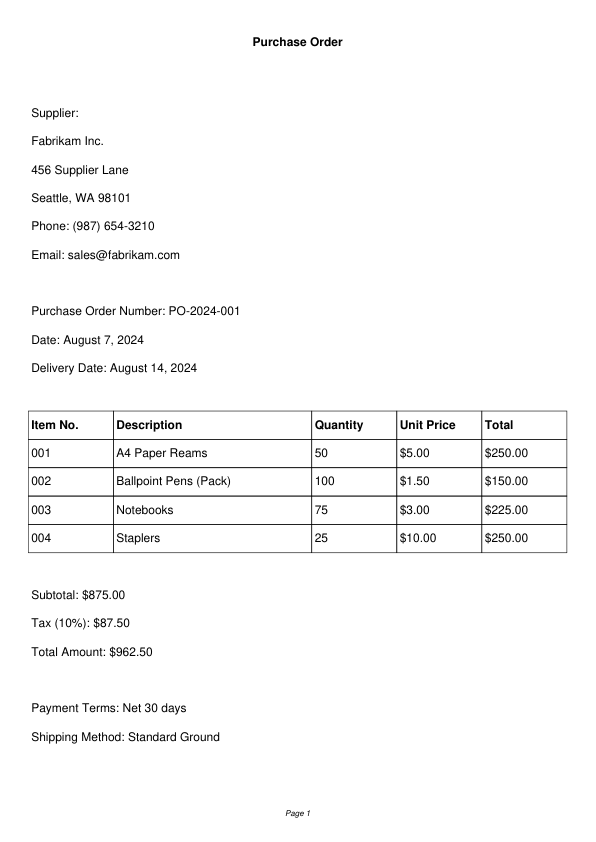
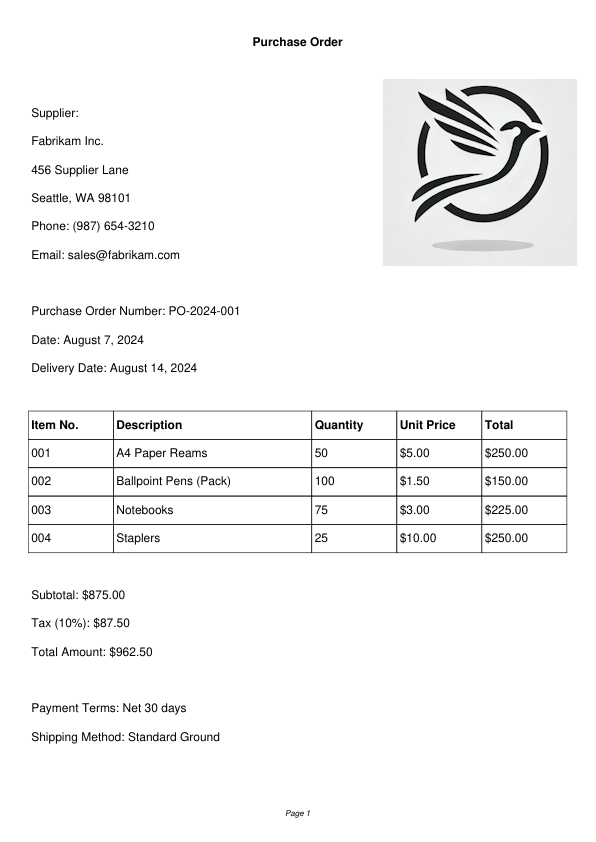
Update image analysis template with better approach

Changed region(s): [[0.6946, 0.0926, 0.9362, 0.3088]]

diff --git a/analyze-images-ai-rag/SampleQuestions.md b/analyze-images-ai-rag/SampleQuestions.md
@@ -1,0 +1,15 @@
+* Sample questions for the Purchase Order image 
+
+1. List the supplier name and phone number  
+2. What is the delivery date  
+3. What is the PO Number 
+4. What is the total amount 
+5. Which is the most expensive item in the list 
+6. How many notebooks are ordered 
+7. Describe the company's logo
+
+
+* Sample questions for the Plant image 
+1. Describe this image  
+2. Are these plants safe for pets  
+3. What is the best time to grow these plants in the North West region of USA
